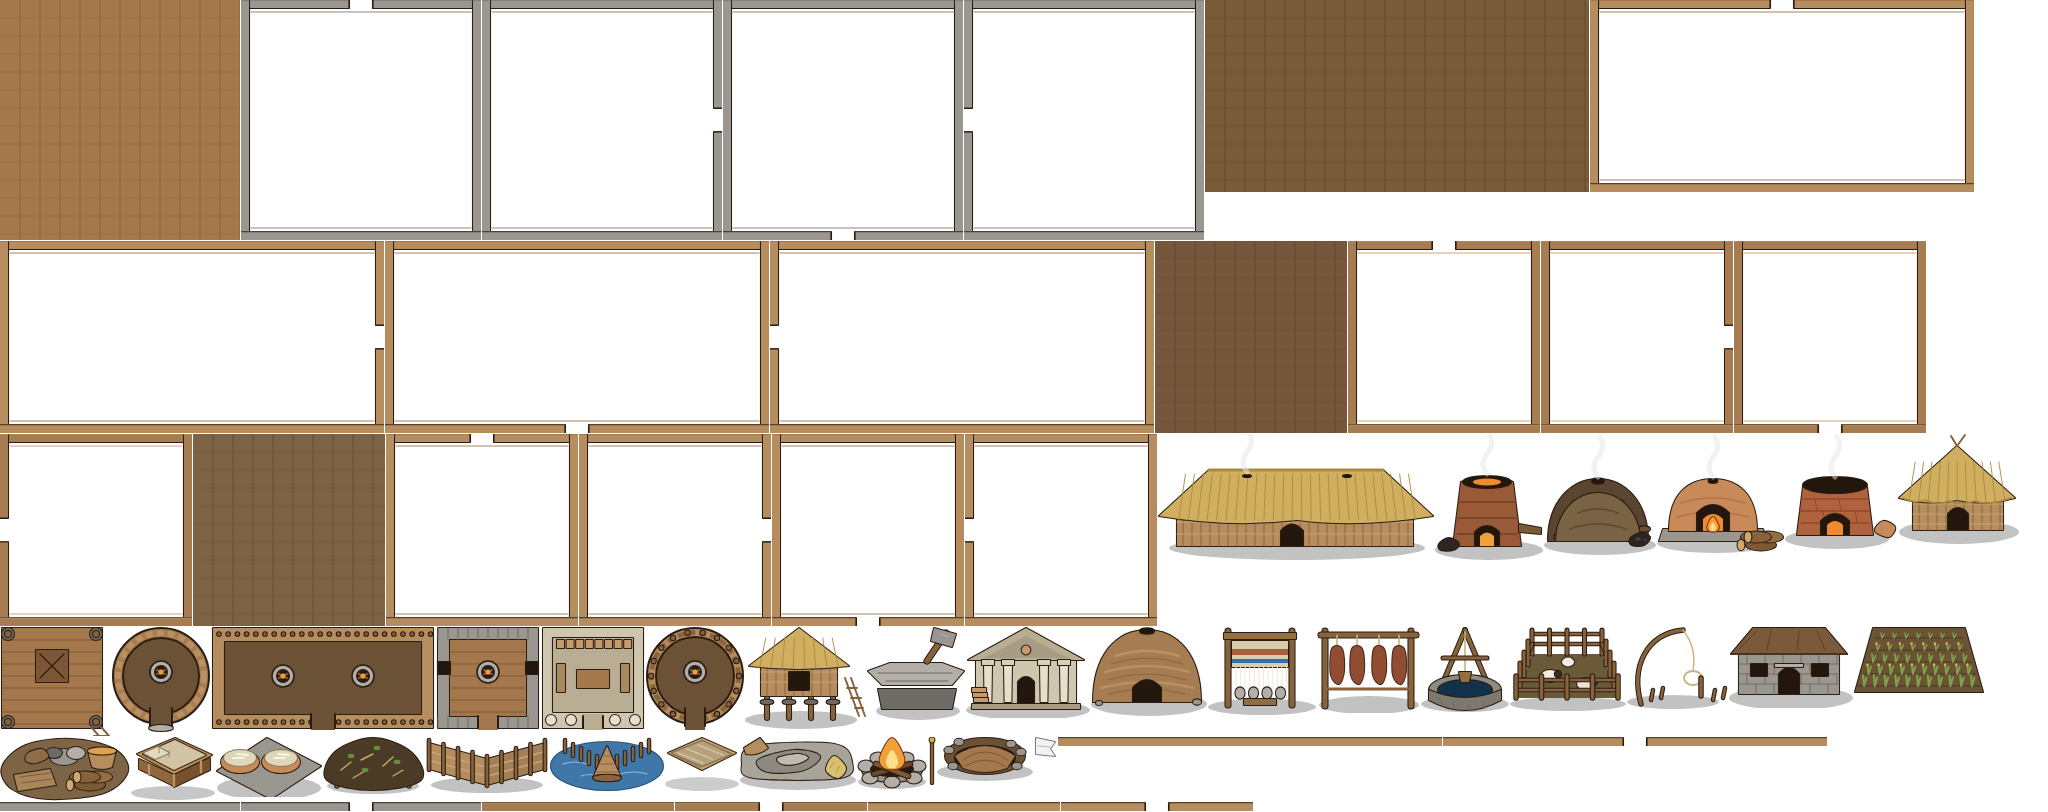
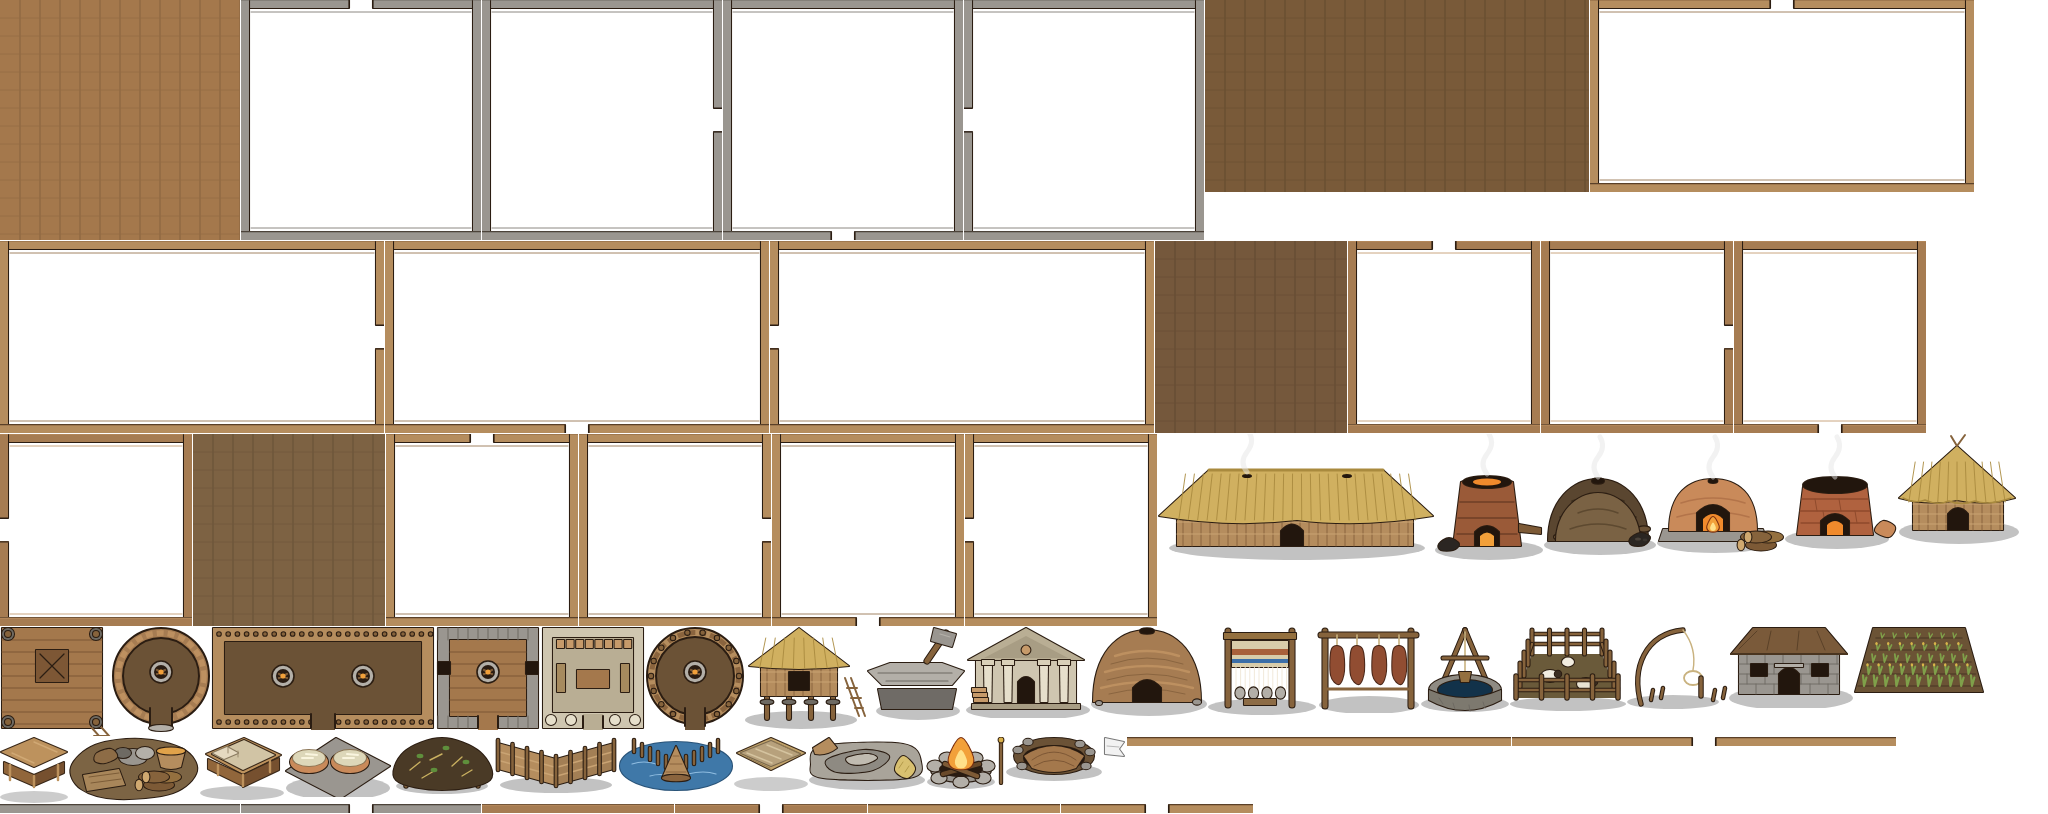
m15: add autonomous household bench rest

diff --git a/src/sim/__tests__/furniture-sleep.test.ts b/src/sim/__tests__/furniture-sleep.test.ts
@@ -1,5 +1,6 @@
 import { describe, expect, it, vi } from 'vitest';
 import { Brain, type BrainContext } from '../ai/Brain.ts';
+import { availableActions } from '../ai/ActionCatalog.ts';
 import { Simulation } from '../core/Simulation.ts';
 import { toCheckpointRecord } from '../persistence/CheckpointRecords.ts';
 import { Building, BUILDINGS } from '../entities/Building.ts';
@@ -55,6 +56,37 @@ describe('bedding and beds', () => {
     expect(assignedSleepSurface(members[0]!, members, house, [secondBed])).toBe(secondBed);
   });
 
+  it('crafts, places, persists, and rests on a bench at the improved seated rate', () => {
+    const { sim, person, house } = fixture();
+    person.knownTech.add('carpentry');
+    person.inventory.add('wood', 2);
+    expect(RECIPES.bench).toMatchObject({ tech: 'carpentry', ingredients: { wood: 2 }, output: { bench: 1 } });
+    person.inventory.add('bench', 1);
+    expect(sim.order(person, 'place_furniture', { buildingId: house.id, itemId: 'bench' })).toBe(true);
+    for (let tick = 0; tick < 5 && person.inventory.count('bench') > 0; tick++) sim.step();
+
+    const bench = sim.buildings.find(building => building.def.id === 'bench');
+    expect(bench).toMatchObject({ hostId: house.id, complete: true });
+    expect(availableActions(person, { kind: 'building', x: bench!.x, y: bench!.y, building: bench! },
+      { world: sim.world, nearWater: false }).find(option => option.id === 'rest'))
+      .toMatchObject({ label: 'Sit and rest', enabled: true });
+    const loaded = Simulation.fromCheckpointRecord(JSON.parse(JSON.stringify(toCheckpointRecord(sim))));
+    const loadedBench = loaded.buildingsById.get(bench!.id)!;
+    expect(loadedBench.hostId).toBe(loaded.buildingsById.get(house.id)!.id);
+
+    const sleeper = loaded.peopleById.get(person.id)!;
+    sleeper.needs.hunger = sleeper.needs.thirst = 0;
+    sleeper.needs.fatigue = 50;
+    loaded.peopleHash.remove(sleeper);
+    sleeper.x = loadedBench.centerX; sleeper.y = loadedBench.centerY;
+    sleeper.targetX = sleeper.x; sleeper.targetY = sleeper.y;
+    loaded.peopleHash.insert(sleeper);
+    expect(loaded.order(sleeper, 'rest', { buildingId: loadedBench.id })).toBe(true);
+    const before = sleeper.needs.fatigue;
+    loaded.step();
+    expect(before - sleeper.needs.fatigue).toBeGreaterThanOrEqual(0.35 * 1.6);
+  });
+
   it('scores the bedding-to-bed ladder only for an unfinished household need', () => {
     const { sim, person, house } = fixture();
     const brain = (sim as unknown as { brain: Brain }).brain;
@@ -77,6 +109,13 @@ describe('bedding and beds', () => {
       expect(score(actor, ctx).found.furnitureItem).toBeNull();
       expect(score(actor, ctx).found.recipe).not.toBe('bedding');
       expect(score(actor, ctx).found.recipe).not.toBe('bed');
+      person.inventory.add('wood', 2);
+      expect(score(actor, ctx).found.recipe).toBe('bench');
+      person.inventory.add('bench', 1);
+      expect(score(actor, ctx).found.furnitureItem).toBe('bench');
+      const bench = new Building(BUILDINGS.bench!, house.centerX + 1, house.centerY, person.bandId, sim.ids);
+      bench.hostId = house.id; bench.complete = true; ctx.buildingHash.insert(bench);
+      expect(score(actor, ctx).found.furnitureItem).toBeNull();
       person.householdId = null; ctx.buildingHash.remove(bed);
       expect(score(actor, ctx).found.furnitureItem).toBeNull();
       return score(actor, ctx);
@@ -110,6 +149,34 @@ describe('bedding and beds', () => {
       expect(person.inventory.count('bed')).toBe(0);
       expect(sim.buildings.some(piece => piece.hostId === house.id && piece.def.id === 'bed')).toBe(true);
       expect(person.order).toBeNull();
+    } finally { spy.mockRestore(); }
+  });
+
+  it('autonomously makes and places one bench after its household has a sleep surface', () => {
+    const { sim, person, house } = fixture();
+    person.knownTech.add('carpentry'); person.inventory.add('wood', 2);
+    const bed = new Building(BUILDINGS.bed!, house.centerX, house.centerY, person.bandId, sim.ids);
+    bed.hostId = house.id; bed.complete = true;
+    sim.buildings.push(bed); sim.buildingsById.set(bed.id, bed); sim.buildingHash.insert(bed);
+    person.action = 'idle'; person.order = null; person.needs.fatigue = 0;
+    const brain = (sim as unknown as { brain: Brain }).brain;
+    const score = brain.score.bind(brain);
+    const spy = vi.spyOn(brain, 'score').mockImplementation((actor, ctx) => {
+      const result = score(actor, ctx);
+      if (actor === person) for (const action of result.scores) {
+        if (action.id === 'craft' || action.id === 'place_furniture') action.score = 100;
+      }
+      return result;
+    });
+    try {
+      for (let tick = 0; tick < 500 && !sim.buildings.some(piece => piece.hostId === house.id && piece.def.id === 'bench'); tick++) {
+        person.needs.hunger = person.needs.thirst = person.needs.cold = 0;
+        sim.step();
+      }
+      expect(person.inventory.count('bench')).toBe(0);
+      expect(sim.buildings.some(piece => piece.hostId === house.id && piece.def.id === 'bench'),
+        JSON.stringify({ action: person.action, order: person.order, inventory: person.inventory.entries(), target: person.targetBuildingId }))
+        .toBe(true);
     } finally { spy.mockRestore(); }
   });
 

diff --git a/src/sim/ai/Brain.ts b/src/sim/ai/Brain.ts
@@ -267,6 +267,7 @@ interface FoundTargets {
   site: Building | null;
   shelter: Building | null;
   restShelter: Building | null;
+  restFurniture: Building | null;
   fruitTree: Tree | null;
   fellTree: Tree | null;
   storeTarget: Building | null;
@@ -1486,6 +1487,7 @@ export class Brain {
     let unfinished: Inscription | null = null;
     let shelter: Building | null = null;
     let restShelter: Building | null = null;
+    let restFurniture: Building | null = null;
     let storeTarget: Building | null = null;
     let storeItemId: string | null = null;
     let storeItemCount: number | null = null;
@@ -3442,6 +3444,18 @@ export class Brain {
     // even with no cold: gating this search on night left tired people resting
     // outside a roof they were already standing beside.
     if (fatigue > 0) {
+      const homeId = person.householdId === null ? null :
+        ctx.householdsById.get(person.householdId)?.homeBuildingId ?? null;
+      const home = homeId === null ? null : ctx.buildingsById.get(homeId) ?? null;
+      if (home?.def.interior && home.complete && !home.ruined) {
+        restFurniture = this.pickBest(ctx.buildingHash.queryRadius(person.x, person.y, ctx.sightRadius + 4)
+          .filter(piece => piece.hostId === home.id && piece.complete && !piece.ruined &&
+            (piece.def.restQuality ?? 0) > 0 &&
+            person.distanceTo({ x: piece.centerX, y: piece.centerY }) <= ctx.sightRadius &&
+            ctx.world.sameRegion(person.x, person.y, piece.centerX, piece.centerY) && this.canUse(person, piece, ctx)),
+          piece => (piece.def.restQuality ?? 1) * 10 -
+            person.distanceTo({ x: piece.centerX, y: piece.centerY }));
+      }
       restShelter = this.pickBest(ctx.buildingHash.queryRadius(person.x, person.y, ctx.sightRadius + 4)
         .filter(b => b.complete && !b.ruined && b.def.shelter > 0.2 &&
           person.distanceTo({ x: b.centerX, y: b.centerY }) <= ctx.sightRadius &&
@@ -3671,6 +3685,12 @@ export class Brain {
         if (quality < (canMakeBed ? 1.1 : 1) && !furnitureItem) {
           furnitureRecipe = canMakeBed && hasIngredients(person.inventory, RECIPES.bed!) ? 'bed' :
             person.inventory.count('bedding') < 1 ? 'bedding' : null;
+        }
+        if (!furnitureItem && !furnitureRecipe && !pieces.some(piece => piece.def.id === 'bench')) {
+          if (person.inventory.count('bench') > 0) furnitureItem = 'bench';
+          else if (recipeTechPower(person, RECIPES.bench!) > 0 && hasIngredients(person.inventory, RECIPES.bench!)) {
+            furnitureRecipe = 'bench';
+          }
         }
         if (furnitureItem) {
           furnitureHome = home;
@@ -3942,7 +3962,7 @@ export class Brain {
     }
     // Still here for people with no roof, which after a bad winter is most of
     // them. Sleeping is strictly better and scores higher when it is available.
-    add('rest', fatigue * 2.4);
+    add('rest', fatigue * 2.4 * (restFurniture ? 1.2 : 1));
 
     // --- Wander ------------------------------------------------------------
     // A small floor so a person with nothing pressing still looks alive, and so
@@ -4056,7 +4076,7 @@ export class Brain {
         water, foodToEat, garmentItem, torchItem, furnitureItem, furnitureHome, waterQuestionPeer, explorePoint, waterExplorePoint, bringFoodPoint, foodNode, pickupPile, pickupItem, matNode, grassSpot, plantSpot, companion, suitor, sparPartner, student, childPupil, mentor, colleague,
         victim, foe, attackRoute, intruder, restrainee, kinDefence, correctee, amendsTo, complainTo, parleyWith, peaceWith, helpCallerTarget, bindTarget, patrolPoint, investigatePoint, concealCorpse, giftee, giftItem, feastStore, feastHost, beneficiary, nursingChild, playmate, tradePartner, fleeFrom, fleePoint,
         quarry,
-        site, shelter, restShelter, storeTarget, storeItemId, storeItemCount, larderTarget, sabotageTarget, fruitTree, fellTree,
+        site, shelter, restShelter, restFurniture, storeTarget, storeItemId, storeItemCount, larderTarget, sabotageTarget, fruitTree, fellTree,
         recipe: craftRecipe, craftStation, fieldTarget, record, unfinished,
         patient, strayAnimal, slanderSubjectId, praiseSubjectId, proposalListener, proposalSite,
       },
@@ -4731,7 +4751,8 @@ export class Brain {
       case 'sleep':
       case 'rest':
       case 'shelter': {
-        const building = action === 'sleep' || action === 'rest' ? found.restShelter :
+        const building = action === 'sleep' ? found.restShelter :
+          action === 'rest' ? found.restFurniture ?? found.restShelter :
           action === 'shelter' ? found.shelter :
           action === 'take' ? found.larderTarget :
           action === 'store' ? found.storeTarget :

diff --git a/e2e/phase16d-bench.spec.ts b/e2e/phase16d-bench.spec.ts
@@ -1,0 +1,56 @@
+import { mkdirSync } from 'node:fs';
+import { test, expect } from '@playwright/test';
+
+const captureDir = process.env.DYNASTY_CAPTURE_DIR ?? 'artifacts/screenshots/m15-phase16d-bench-2026-10-11';
+
+test('places a bench in the household home and captures the in-world sprite', async ({ page }) => {
+  await page.goto('/?seed=phase16d-bench&skipIntro=1');
+  await expect(page.locator('.hud-clock')).not.toBeEmpty({ timeout: 15000 });
+  await page.locator('.hud-button', { hasText: 'Pause' }).click();
+  const placed = await page.evaluate(() => {
+    const d = (window as never as { __dynasty: {
+      sim: any;
+      camera: { zoom: number; following: boolean; snapTo: (x: number, y: number) => void };
+      renderer: { fogEnabled: boolean };
+    } }).__dynasty;
+    const sim = d.sim;
+    const person = sim.player;
+    if (!person) throw new Error('player did not spawn');
+    const sites: { x: number; y: number; distance: number }[] = [];
+    for (let y = 3; y < sim.world.height - 5; y++) for (let x = 3; x < sim.world.width - 5; x++) {
+      const distance = Math.hypot(x + 1.5 - person.x, y + 1.5 - person.y);
+      if (distance >= 2 && distance <= 10) sites.push({ x, y, distance });
+    }
+    sites.sort((a, b) => a.distance - b.distance || a.y - b.y || a.x - b.x);
+    let house: any = null;
+    for (const site of sites) {
+      house = sim.place('mud_hut', site.x, site.y, person.bandId);
+      if (house) break;
+    }
+    if (!house) throw new Error('could not site house near player');
+    house.complete = true;
+    house.durability = house.def.workTicks;
+    const household = sim.householdsById.get(person.householdId);
+    if (!household) throw new Error('player has no household');
+    household.homeBuildingId = house.id;
+    person.knownTech.add('carpentry');
+    person.inventory.add('bench', 1);
+    sim.peopleHash.remove(person);
+    person.x = house.centerX;
+    person.y = house.centerY;
+    person.targetX = person.x;
+    person.targetY = person.y;
+    sim.peopleHash.insert(person);
+    d.camera.following = false;
+    d.camera.zoom = 6;
+    d.camera.snapTo(house.centerX, house.centerY);
+    d.renderer.fogEnabled = false;
+    const accepted = sim.order(person, 'place_furniture', { buildingId: house.id, itemId: 'bench' });
+    if (accepted) sim.step();
+    return accepted && sim.buildings.some((building: any) => building.def.id === 'bench' && building.hostId === house.id);
+  });
+  expect(placed).toBe(true);
+  mkdirSync(captureDir, { recursive: true });
+  await page.waitForTimeout(350);
+  await page.screenshot({ path: `${captureDir}/01-bench-in-house.png` });
+});

diff --git a/src/sim/entities/Building.ts b/src/sim/entities/Building.ts
@@ -164,6 +164,8 @@ export interface BuildingDef {
   furniture?: boolean;
   /** Fatigue recovery multiplier for a sleeper resting on this furniture. */
   sleepQuality?: number;
+  /** Fatigue recovery multiplier for resting beside/on this furniture. */
+  restQuality?: number;
   /**
    * Set on a design that moves ground to a plan rather than raising a
    * structure — M15 phase 26c. The tiles, and how far each has got, hang off
@@ -334,6 +336,12 @@ export const BUILDINGS: Record<string, BuildingDef> = {
     width: 1, height: 1, materials: {}, workTicks: 0, shelter: 0, storage: 0,
     requiresTech: 'carpentry', furniture: true, sleepQuality: 1.1,
     description: 'A raised wooden bed with bedding, inside a home.',
+  },
+  bench: {
+    id: 'bench', label: 'Bench', icon: '\u{1FA91}',
+    width: 1, height: 1, materials: {}, workTicks: 0, shelter: 0, storage: 0,
+    requiresTech: 'carpentry', furniture: true, restQuality: 1.6,
+    description: 'A wooden seat for resting inside a home.',
   },
 
   // --- M11 phase 10, second commit: two more shelters -----------------------

diff --git a/art/src/props/items.ts b/art/src/props/items.ts
@@ -82,6 +82,13 @@ export const ITEMS: ItemArt[] = [
     + shape(poly([[12, 27], [32, 16], [52, 28], [32, 39]]), '#d7ccb4', '#76684f')
     + shape(poly([[13, 26], [23, 21], [30, 25], [20, 29]]), '#eee5d3', '#8f8065')
     + stroke('M14,34L14,41M50,32L50,39M32,44L32,51', WOOD, 2)],
+  ['bench', 'Banco', 'carpentry', () =>
+    ell(32, 53, 23, 5, 'rgba(0,0,0,0.2)')
+    + shape(poly([[9, 25], [31, 13], [55, 26], [32, 39]]), WOOD, WOOD_D)
+    + shape(poly([[12, 26], [31, 16], [51, 27], [32, 37]]), '#a98253', WOOD_D)
+    + shape(poly([[12, 33], [32, 44], [32, 53], [12, 42]]), '#6f4c2d', WOOD_D)
+    + shape(poly([[32, 44], [52, 33], [52, 42], [32, 53]]), '#593c25', WOOD_D)
+    + stroke('M17,37L17,45M47,35L47,43M32,44L32,52', WOOD, 2)],
   ['raft', 'Balsa de juncos', 'cordage', () =>
     [16, 24, 32, 40, 48].map(x => limb([[x, 12], [x, 52]], 7, '#b89d5c', '#685332')).join('')
     + stroke('M12,23L52,23M12,41L52,41', CORD, 2.6)

diff --git a/src/sim/systems/ActionSystem.ts b/src/sim/systems/ActionSystem.ts
@@ -2505,9 +2505,13 @@ export class ActionSystem {
       this.stop(person, wake, ctx, 'rest_ended_');
       return;
     }
-    if (person.targetBuildingId !== null && !this.reachBuilding(person, ctx, undefined, 'trespass')) return;
-    person.needs.fatigue = Math.max(0, person.needs.fatigue - 0.35);
+    const seat = person.targetBuildingId === null
+      ? null : this.reachBuilding(person, ctx, undefined, 'trespass');
+    if (person.targetBuildingId !== null && !seat) return;
+    const restQuality = seat?.def.furniture ? Math.max(1, seat.def.restQuality ?? 1) : 1;
+    person.needs.fatigue = Math.max(0, person.needs.fatigue - 0.35 * restQuality);
     telemetry.count('rest');
+    if (restQuality > 1) telemetry.count('rest_furniture');
   }
 
   // -------------------------------------------------------------------------

diff --git a/src/i18n/es/data.ts b/src/i18n/es/data.ts
@@ -90,6 +90,8 @@ export const ES_DATA: Record<string, string> = {
   "Mud hut": "Choza de barro",
   "Bedding": "Lecho",
   "Bed": "Cama",
+  "Bench": "Banco",
+  "A wooden seat for resting inside a home.": "Un asiento de madera para descansar dentro de una casa.",
   "A bed of grass or hide laid inside a home.": "Un lecho de hierba o piel tendido dentro de una casa.",
   "A raised wooden bed with bedding, inside a home.": "Una cama elevada de madera con lecho, dentro de una casa.",
   "Daubed walls on a felled-timber frame, under thatch. Warm enough to winter in, and the first thing worth cutting a tree for.": "Paredes de barro sobre un armazón de madera talada, bajo techo de paja. Lo bastante cálida para pasar el invierno, y lo primero por lo que vale la pena talar un árbol.",

diff --git a/art/src/buildings/furniture.ts b/art/src/buildings/furniture.ts
@@ -25,7 +25,16 @@ const bed = (): string =>
   stroke('M48,73L48,83M100,69L100,80M73,83L73,94', WOOD_LIGHT, 2.4) +
   stroke('M58,55L58,61M68,59L68,65', '#9b8b6e', 1);
 
+const bench = (): string =>
+  ell(72, 102, 34, 6, 'rgba(0,0,0,0.2)') +
+  shape(poly([[39, 57], [72, 43], [105, 57], [72, 72]]), WOOD_LIGHT, OUTLINE) +
+  shape(poly([[42, 67], [72, 80], [72, 91], [42, 78]]), WOOD, OUTLINE) +
+  shape(poly([[72, 80], [102, 67], [102, 78], [72, 91]]), '#76502f', OUTLINE) +
+  stroke('M48,70L48,85M96,70L96,85M72,81L72,92', WOOD_LIGHT, 2.5) +
+  stroke('M50,58L72,68M72,47L95,57', '#d0a874', 1.4);
+
 export const FURNITURE: BuildingArt[] = [
   ['bedding', 'Lecho', 'cordage', 96, bedding],
   ['bed', 'Cama', 'carpentry', 96, bed],
+  ['bench', 'Banco', 'carpentry', 96, bench],
 ];

diff --git a/src/sim/entities/Recipe.ts b/src/sim/entities/Recipe.ts
@@ -97,6 +97,8 @@ export const RECIPES: Record<string, RecipeDef> = {
     output: { bedding: 1 }, keep: 0 },
   bed: { id: 'bed', label: 'Bed', icon: '\u{1F6CF}', tech: 'carpentry', skill: 'build',
     workTicks: 140, ingredients: { wood: 3, bedding: 1 }, output: { bed: 1 }, keep: 0 },
+  bench: { id: 'bench', label: 'Bench', icon: '\u{1FA91}', tech: 'carpentry', skill: 'build',
+    workTicks: 100, ingredients: { wood: 2 }, output: { bench: 1 }, keep: 0 },
   // Kept at zero: a raft is made for a journey, not a new universal AI tax.
   raft: { id: 'raft', label: 'Reed raft', icon: '🛶', tech: 'cordage', skill: 'build',
     workTicks: 120, ingredients: { thatch: 6, sticks: 2, rope: 1 }, output: { raft: 1 }, keep: 0 },

diff --git a/src/sim/entities/Item.ts b/src/sim/entities/Item.ts
@@ -101,6 +101,8 @@ export const ITEMS: Record<string, ItemDef> = {
     class: 'bulky', hand: { perHand: 0, perArms: 1, hands: 2 }, furniture: true },
   bed: { id: 'bed', label: 'Bed', nutrition: 0, spoilTicks: 0, baseValue: 12,
     class: 'bulky', hand: { perHand: 0, perArms: 1, hands: 2 }, furniture: true },
+  bench: { id: 'bench', label: 'Bench', nutrition: 0, spoilTicks: 0, baseValue: 8,
+    class: 'bulky', hand: { perHand: 0, perArms: 1, hands: 2 }, furniture: true },
   raft: { id: 'raft', label: 'Reed raft', nutrition: 0, spoilTicks: 0, baseValue: 12,
     class: 'bulky', hand: { perHand: 0, perArms: 2, hands: 2, shoulder: 0 } },
   sail: { id: 'sail', label: 'Sail', nutrition: 0, spoilTicks: 0, baseValue: 18,

diff --git a/src/sim/ai/ActionCatalog.ts b/src/sim/ai/ActionCatalog.ts
@@ -1151,6 +1151,15 @@ function buildingActions(
         warning: watched,
       });
     }
+    if ((building.def.restQuality ?? 0) > 0 && building.def.furniture) {
+      options.push({
+        id: 'rest',
+        label: t('Sit and rest'),
+        icon: '\u{1FA91}',
+        enabled: true,
+        warning: watched,
+      });
+    }
     if (building.def.interior && actor.inventory.entries().some(([itemId, count]) =>
       count > 0 && ITEMS[itemId]?.furniture)) {
       const furniture = actor.inventory.entries().filter(([itemId, count]) =>

diff --git a/src/render/__tests__/art.test.ts b/src/render/__tests__/art.test.ts
@@ -83,7 +83,7 @@ describe('art coverage', () => {
   });
 
   it('draws inventory icons and world sprites for the phase 16d sleep surfaces', () => {
-    for (const id of ['bedding', 'bed']) {
+    for (const id of ['bedding', 'bed', 'bench']) {
       expect(props.keys[`item/${id}`], `${id} inventory icon`).toBeDefined();
       expect(buildings.keys[`b/${id}/ext`], `${id} placed furniture`).toBeDefined();
     }
